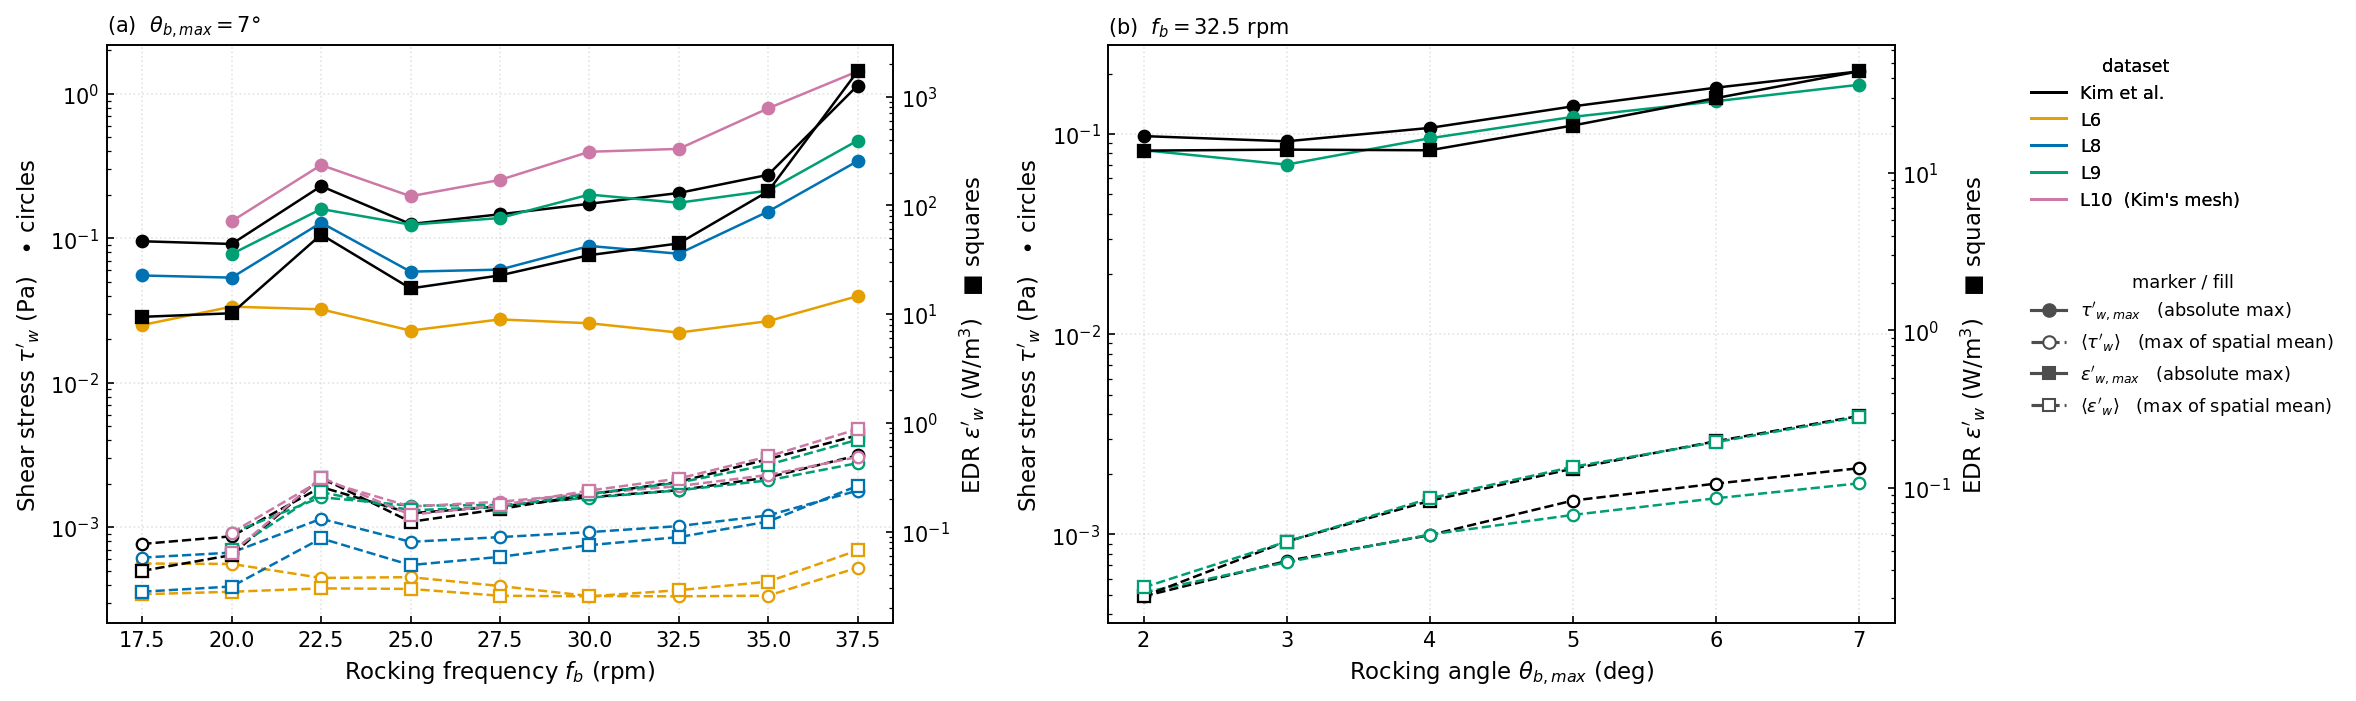
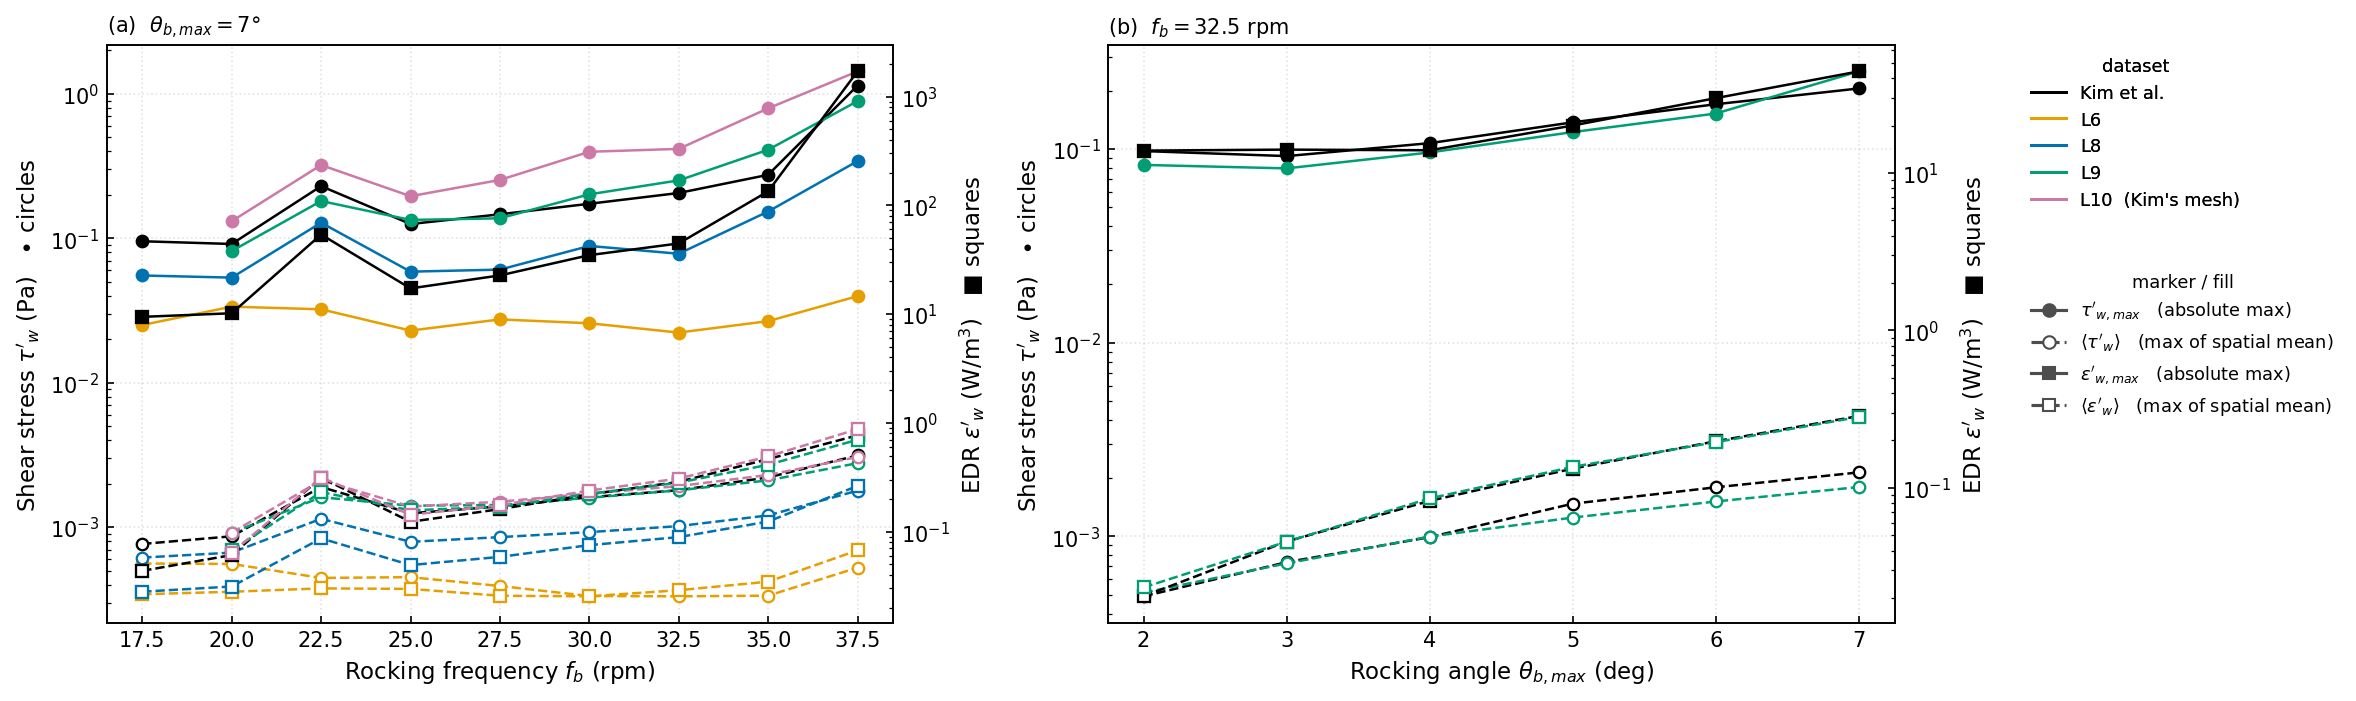
fix(fig13): L9's tau max came from sparse frames, biasing it 30-47% low
The user noticed L10 apparently beating L9 on the filled circles. It is not
physics and not a bugfix difference: L9 was the ONLY level whose maximum was
recomputed from saved frames rather than read from shear_stress.dat.

Frames sample ~5-16 distinct phases; the per-timestep KPI samples ~30 per
cycle. A maximum over that sparse a sample misses the peak instant:

  32.5 rpm   frames 1.76e-1  vs  timeseries 2.52e-1   ratio 0.70
  37.5 rpm   frames 4.75e-1  vs  timeseries 8.91e-1   ratio 0.53
  25.0 rpm   frames 1.24e-1  vs  timeseries 1.34e-1   ratio 0.93

Worst where the peak is sharpest in time, which is exactly the shape of the
apparent L9-vs-L10 gap.

L9's MAX now comes from shear_stress.dat col 8 (signed max, as Kim), while
its MEANS still come from the frames. That asymmetry is deliberate and is the
reason the bug existed: these L9 runs predate the bag-mask fix, so their
logged MEANS are diluted ~3.5x and must be recomputed -- but the mask bug
could not affect MAXIMA (u=0 outside the bag, so tau=0 there), so the dense
KPI max is valid even from a pre-fix run. I had recomputed both from frames
when only the mean needed it.

L9 tau_max vs Kim after the fix: 0.78-1.51 across the sweep (was uniformly
depressed).

Claude-Session: https://claude.ai/code/session_01YAKLKMs5oUYu8r6RenvudK

diff --git a/scripts/plot_fig13.py b/scripts/plot_fig13.py
@@ -105,7 +105,37 @@ kim_rpm=pd.read_csv(CSV_RPM,skiprows=[1]); kim_rpm['RPM']=pd.to_numeric(kim_rpm[
 kim_rpm=kim_rpm.sort_values('RPM')
 kim_deg=pd.read_csv(CSV_DEG).sort_values('theta_deg')
 l6=from_timeseries('fig13a_l6_mf_rpm'); l8=from_timeseries('fig13a_rm_mf_rpm')
-l9=from_frames(RPM_RUNS_L9); l9d=from_frames(DEG_RUNS)
+def with_dense_max(df, runs):
+    """Replace the frame-derived tau_max with the per-timestep one.
+
+    [FIXED 2026-09-16] L9 was the only level whose MAX came from saved frames
+    rather than from shear_stress.dat, and frames sample ~5-16 phases against
+    the KPI's ~30 per cycle. A maximum over that sparse a sample misses the
+    peak instant: measured here 0.70x the true max at 32.5 rpm, 0.53x at 37.5
+    (worst where the peak is sharpest in time), 0.93x at 25. That deficit --
+    not physics -- is what made L10 look like it beat L9 on the filled circles.
+
+    The MEANS still come from the frames, because these L9 runs predate the
+    bag-mask fix and their logged means are diluted ~3.5x. The MAX does not
+    need that treatment: the mask bug could not touch maxima (u=0 outside the
+    bag, so tau=0 there), which is why the dense KPI max is usable here even
+    though the mean from the same file is not.
+    """
+    import numpy as np
+    out = df.copy()
+    for i, r in out.iterrows():
+        run = runs[r['x']]
+        f = ROOT/'runs'/run/'shear_stress.dat'
+        if not f.exists():
+            continue
+        a = np.loadtxt(f, skiprows=1); _, ts, _ = scales(run)
+        t = a[:, 1]; m = t >= t[0] + 0.5*(t[-1] - t[0])
+        out.at[i, 'tau_max'] = a[m, 8].max()*ts     # col 8 = signed max, as Kim
+    return out
+
+
+l9=with_dense_max(from_frames(RPM_RUNS_L9), RPM_RUNS_L9)
+l9d=with_dense_max(from_frames(DEG_RUNS), DEG_RUNS)
 # L10 -- Kim's OWN mesh (n_L=2^10). Cross-level sweep, each point warm-started
 # from the converged L9 state at the same rpm, on BioReactor-mpi-xlevel-chain
 # (built 2026-09-15 10:41, i.e. WITH the bag-mask fix).
